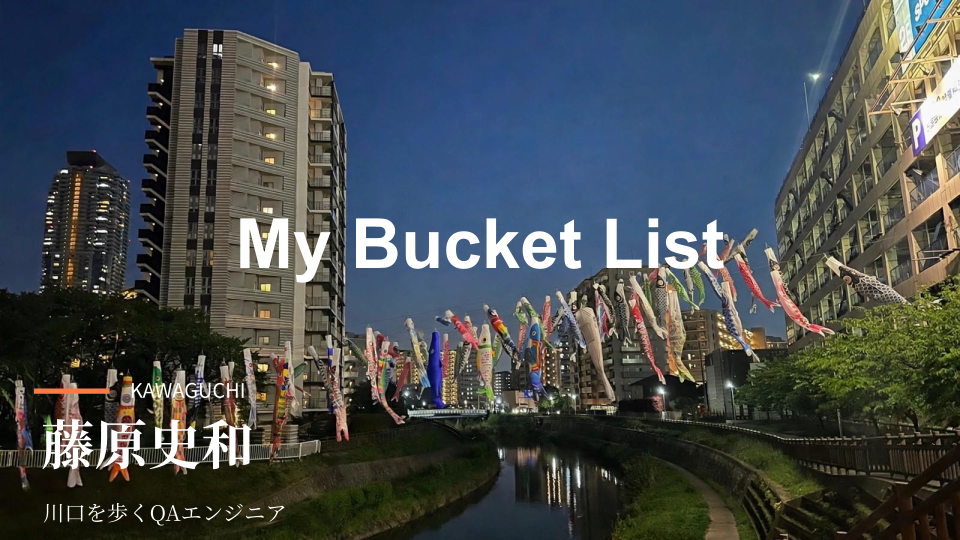
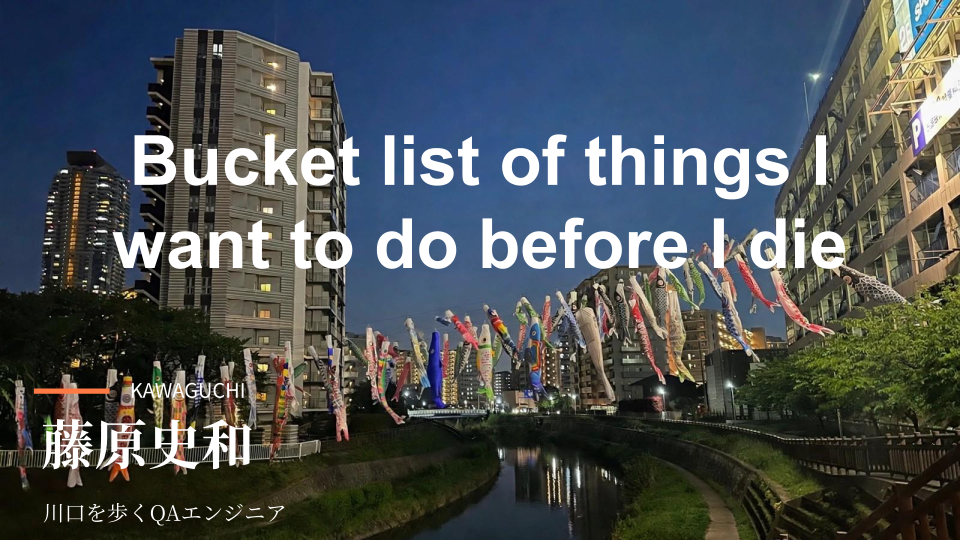
deploy: 91990119751d0ec8c552a84c2662d5ca43892daa

Changed region(s): [[0.125, 0.237, 0.875, 0.3852], [0.0938, 0.3852, 0.5625, 0.5333], [0.5938, 0.3852, 0.9062, 0.5037]]

diff --git a/zh/1DDYJrSSrkfpYp_Uh4p6Esj0791MVFP50b0cAdUsSdcU.html b/zh/1DDYJrSSrkfpYp_Uh4p6Esj0791MVFP50b0cAdUsSdcU.html
@@ -1,0 +1,72 @@
+<!DOCTYPE html>
+<html lang="zh-CN">
+  <head>
+    <meta charset="UTF-8" />
+    <meta name="viewport" content="width=device-width, initial-scale=1.0" />
+    <link rel="preconnect" href="https://fonts.googleapis.com">
+    <link rel="preconnect" href="https://fonts.gstatic.com" crossorigin>
+    <link rel="preconnect" href="https://script.google.com">
+    <link rel="preconnect" href="https://script.googleusercontent.com" crossorigin>
+    <link href="https://fonts.googleapis.com/css2?family=Shippori+Mincho+B1:wght@700;800&family=Zen+Kaku+Gothic+New:wght@400;500;700&display=swap" rel="stylesheet">
+    <link rel="icon" href="/blog/favicon.ico" sizes="any">
+    <link rel="icon" type="image/png" sizes="32x32" href="/blog/favicon-32.png">
+    <link rel="icon" type="image/png" sizes="16x16" href="/blog/favicon-16.png">
+    <link rel="apple-touch-icon" sizes="180x180" href="/blog/apple-touch-icon.png">
+    <meta property="og:title" content="2026年11月20日，通过异常案例测试和基于属性的测试发现的缺陷，以及六种类型的缺陷" />
+    <meta property="og:description" content="这是对本网站运营幕后情况的介绍。 前几天，我读了一篇博客文章。文章说“实际生产环境中的大多数问题都是由于没有检查‘异常情况’造成的”，读着读着，我不禁反思起自己的博客。 我首先在我的博客上进行了测试，发现了三个 bug。出于好奇，我把测试范" />
+    <meta property="og:type" content="article" />
+    <meta property="og:url" content="https://freddiefujiwara.com/blog/zh/1DDYJrSSrkfpYp_Uh4p6Esj0791MVFP50b0cAdUsSdcU" />
+    <meta property="og:image" content="https://freddiefujiwara.com/blog/ogp/1DDYJrSSrkfpYp_Uh4p6Esj0791MVFP50b0cAdUsSdcU.zh.png" />
+    <meta property="og:image:width" content="1200" />
+    <meta property="og:image:height" content="630" />
+    <meta property="og:site_name" content="藤原史和｜川口を歩くQAエンジニア" />
+    <meta name="twitter:card" content="summary_large_image" />
+    <meta name="twitter:image" content="https://freddiefujiwara.com/blog/ogp/1DDYJrSSrkfpYp_Uh4p6Esj0791MVFP50b0cAdUsSdcU.zh.png" />
+    <script>
+      (function () {
+        var l = window.location;
+
+        // 404.html から /blog/?/xxx にされている想定
+        if (l.search && l.search.startsWith('?/')) {
+          var route = l.search.slice(2); // "xxx..."
+
+          // route に &a=b が混ざる可能性があるので分離
+          var extra = '';
+          var ampIndex = route.indexOf('&');
+          if (ampIndex !== -1) {
+            extra = '?' + route.slice(ampIndex + 1);
+            route = route.slice(0, ampIndex);
+          }
+
+          // /blog/ + route へ戻す（末尾/を1回だけ調整）
+          var base = l.pathname; // "/blog/"
+          if (!base.endsWith('/')) base += '/';
+          var newUrl = base + route + extra + l.hash;
+
+          window.history.replaceState(null, '', newUrl);
+        }
+      })();
+    </script>
+    <title>2026年11月20日，通过异常案例测试和基于属性的测试发现的缺陷，以及六种类型的缺陷</title>
+      <!-- Google tag (gtag.js) -->
+    <script async src="https://www.googletagmanager.com/gtag/js?id=G-W2C6FNCW86"></script>
+    <script>
+      window.dataLayer = window.dataLayer || [];
+      function gtag(){dataLayer.push(arguments);}
+      gtag('js', new Date());
+      // Page views are sent by the router (src/analytics.js) so SPA
+      // navigations are counted without duplicates.
+      gtag('config', 'G-W2C6FNCW86', { send_page_view: false });
+    </script>
+    <script type="module" crossorigin src="/blog/assets/index-ELB7ZYs4.js"></script>
+    <link rel="stylesheet" crossorigin href="/blog/assets/index-Oqpwazlo.css">
+  <link rel="canonical" href="https://freddiefujiwara.com/blog/zh/1DDYJrSSrkfpYp_Uh4p6Esj0791MVFP50b0cAdUsSdcU" />
+<link rel="alternate" hreflang="ja" href="https://freddiefujiwara.com/blog/1DDYJrSSrkfpYp_Uh4p6Esj0791MVFP50b0cAdUsSdcU" />
+<link rel="alternate" hreflang="en" href="https://freddiefujiwara.com/blog/en/1DDYJrSSrkfpYp_Uh4p6Esj0791MVFP50b0cAdUsSdcU" />
+<link rel="alternate" hreflang="zh" href="https://freddiefujiwara.com/blog/zh/1DDYJrSSrkfpYp_Uh4p6Esj0791MVFP50b0cAdUsSdcU" />
+<link rel="alternate" hreflang="x-default" href="https://freddiefujiwara.com/blog/1DDYJrSSrkfpYp_Uh4p6Esj0791MVFP50b0cAdUsSdcU" />
+</head>
+  <body>
+    <div id="app"></div>
+  </body>
+</html>

diff --git a/1DDYJrSSrkfpYp_Uh4p6Esj0791MVFP50b0cAdUsSdcU.html b/1DDYJrSSrkfpYp_Uh4p6Esj0791MVFP50b0cAdUsSdcU.html
@@ -1,0 +1,71 @@
+<!DOCTYPE html>
+<html lang="ja">
+  <head>
+    <meta charset="UTF-8" />
+    <meta name="viewport" content="width=device-width, initial-scale=1.0" />
+    <link rel="preconnect" href="https://fonts.googleapis.com">
+    <link rel="preconnect" href="https://fonts.gstatic.com" crossorigin>
+    <link rel="preconnect" href="https://script.google.com">
+    <link rel="preconnect" href="https://script.googleusercontent.com" crossorigin>
+    <link href="https://fonts.googleapis.com/css2?family=Shippori+Mincho+B1:wght@700;800&family=Zen+Kaku+Gothic+New:wght@400;500;700&display=swap" rel="stylesheet">
+    <link rel="icon" href="/blog/favicon.ico" sizes="any">
+    <link rel="icon" type="image/png" sizes="32x32" href="/blog/favicon-32.png">
+    <link rel="icon" type="image/png" sizes="16x16" href="/blog/favicon-16.png">
+    <link rel="apple-touch-icon" sizes="180x180" href="/blog/apple-touch-icon.png">
+    <meta property="og:title" content="2026-11-20 異常系テストとプロパティベーステストで見つけた不具合と不具合の6つの型" />
+    <meta property="og:description" content="このサイトの運営の裏側の話です。 先日、ある方のブログ記事を読みました。「本番のトラブルは、たいてい『異常な場合』を確かめていないことから起きる」という内容で、読みながら、自分のブログはどうだろう、と思いました。 まずブログで試したところ、" />
+    <meta property="og:type" content="article" />
+    <meta property="og:url" content="https://freddiefujiwara.com/blog/1DDYJrSSrkfpYp_Uh4p6Esj0791MVFP50b0cAdUsSdcU" />
+    <meta property="og:image" content="https://freddiefujiwara.com/blog/ogp/1DDYJrSSrkfpYp_Uh4p6Esj0791MVFP50b0cAdUsSdcU.png" />
+    <meta property="og:image:width" content="1200" />
+    <meta property="og:image:height" content="630" />
+    <meta property="og:site_name" content="藤原史和｜川口を歩くQAエンジニア" />
+    <meta name="twitter:card" content="summary_large_image" />
+    <meta name="twitter:image" content="https://freddiefujiwara.com/blog/ogp/1DDYJrSSrkfpYp_Uh4p6Esj0791MVFP50b0cAdUsSdcU.png" />
+    <script>
+      (function () {
+        var l = window.location;
+
+        // 404.html から /blog/?/xxx にされている想定
+        if (l.search && l.search.startsWith('?/')) {
+          var route = l.search.slice(2); // "xxx..."
+
+          // route に &a=b が混ざる可能性があるので分離
+          var extra = '';
+          var ampIndex = route.indexOf('&');
+          if (ampIndex !== -1) {
+            extra = '?' + route.slice(ampIndex + 1);
+            route = route.slice(0, ampIndex);
+          }
+
+          // /blog/ + route へ戻す（末尾/を1回だけ調整）
+          var base = l.pathname; // "/blog/"
+          if (!base.endsWith('/')) base += '/';
+          var newUrl = base + route + extra + l.hash;
+
+          window.history.replaceState(null, '', newUrl);
+        }
+      })();
+    </script>
+    <title>2026-11-20 異常系テストとプロパティベーステストで見つけた不具合と不具合の6つの型</title>
+      <!-- Google tag (gtag.js) -->
+    <script async src="https://www.googletagmanager.com/gtag/js?id=G-W2C6FNCW86"></script>
+    <script>
+      window.dataLayer = window.dataLayer || [];
+      function gtag(){dataLayer.push(arguments);}
+      gtag('js', new Date());
+      // Page views are sent by the router (src/analytics.js) so SPA
+      // navigations are counted without duplicates.
+      gtag('config', 'G-W2C6FNCW86', { send_page_view: false });
+    </script>
+    <script type="module" crossorigin src="/blog/assets/index-ELB7ZYs4.js"></script>
+    <link rel="stylesheet" crossorigin href="/blog/assets/index-Oqpwazlo.css">
+  <link rel="alternate" hreflang="ja" href="https://freddiefujiwara.com/blog/1DDYJrSSrkfpYp_Uh4p6Esj0791MVFP50b0cAdUsSdcU" />
+<link rel="alternate" hreflang="en" href="https://freddiefujiwara.com/blog/en/1DDYJrSSrkfpYp_Uh4p6Esj0791MVFP50b0cAdUsSdcU" />
+<link rel="alternate" hreflang="zh" href="https://freddiefujiwara.com/blog/zh/1DDYJrSSrkfpYp_Uh4p6Esj0791MVFP50b0cAdUsSdcU" />
+<link rel="alternate" hreflang="x-default" href="https://freddiefujiwara.com/blog/1DDYJrSSrkfpYp_Uh4p6Esj0791MVFP50b0cAdUsSdcU" />
+</head>
+  <body>
+    <div id="app"></div>
+  </body>
+</html>

diff --git a/en/1DDYJrSSrkfpYp_Uh4p6Esj0791MVFP50b0cAdUsSdcU.html b/en/1DDYJrSSrkfpYp_Uh4p6Esj0791MVFP50b0cAdUsSdcU.html
@@ -1,0 +1,72 @@
+<!DOCTYPE html>
+<html lang="en">
+  <head>
+    <meta charset="UTF-8" />
+    <meta name="viewport" content="width=device-width, initial-scale=1.0" />
+    <link rel="preconnect" href="https://fonts.googleapis.com">
+    <link rel="preconnect" href="https://fonts.gstatic.com" crossorigin>
+    <link rel="preconnect" href="https://script.google.com">
+    <link rel="preconnect" href="https://script.googleusercontent.com" crossorigin>
+    <link href="https://fonts.googleapis.com/css2?family=Shippori+Mincho+B1:wght@700;800&family=Zen+Kaku+Gothic+New:wght@400;500;700&display=swap" rel="stylesheet">
+    <link rel="icon" href="/blog/favicon.ico" sizes="any">
+    <link rel="icon" type="image/png" sizes="32x32" href="/blog/favicon-32.png">
+    <link rel="icon" type="image/png" sizes="16x16" href="/blog/favicon-16.png">
+    <link rel="apple-touch-icon" sizes="180x180" href="/blog/apple-touch-icon.png">
+    <meta property="og:title" content="2026-11-20 Defects found through abnormal case testing and property-based testing, and six types of defects" />
+    <meta property="og:description" content="This is a behind-the-scenes look at how this website is run. The other day, I read someone's blog post. It said that &quot;mo" />
+    <meta property="og:type" content="article" />
+    <meta property="og:url" content="https://freddiefujiwara.com/blog/en/1DDYJrSSrkfpYp_Uh4p6Esj0791MVFP50b0cAdUsSdcU" />
+    <meta property="og:image" content="https://freddiefujiwara.com/blog/ogp/1DDYJrSSrkfpYp_Uh4p6Esj0791MVFP50b0cAdUsSdcU.en.png" />
+    <meta property="og:image:width" content="1200" />
+    <meta property="og:image:height" content="630" />
+    <meta property="og:site_name" content="藤原史和｜川口を歩くQAエンジニア" />
+    <meta name="twitter:card" content="summary_large_image" />
+    <meta name="twitter:image" content="https://freddiefujiwara.com/blog/ogp/1DDYJrSSrkfpYp_Uh4p6Esj0791MVFP50b0cAdUsSdcU.en.png" />
+    <script>
+      (function () {
+        var l = window.location;
+
+        // 404.html から /blog/?/xxx にされている想定
+        if (l.search && l.search.startsWith('?/')) {
+          var route = l.search.slice(2); // "xxx..."
+
+          // route に &a=b が混ざる可能性があるので分離
+          var extra = '';
+          var ampIndex = route.indexOf('&');
+          if (ampIndex !== -1) {
+            extra = '?' + route.slice(ampIndex + 1);
+            route = route.slice(0, ampIndex);
+          }
+
+          // /blog/ + route へ戻す（末尾/を1回だけ調整）
+          var base = l.pathname; // "/blog/"
+          if (!base.endsWith('/')) base += '/';
+          var newUrl = base + route + extra + l.hash;
+
+          window.history.replaceState(null, '', newUrl);
+        }
+      })();
+    </script>
+    <title>2026-11-20 Defects found through abnormal case testing and property-based testing, and six types of defects</title>
+      <!-- Google tag (gtag.js) -->
+    <script async src="https://www.googletagmanager.com/gtag/js?id=G-W2C6FNCW86"></script>
+    <script>
+      window.dataLayer = window.dataLayer || [];
+      function gtag(){dataLayer.push(arguments);}
+      gtag('js', new Date());
+      // Page views are sent by the router (src/analytics.js) so SPA
+      // navigations are counted without duplicates.
+      gtag('config', 'G-W2C6FNCW86', { send_page_view: false });
+    </script>
+    <script type="module" crossorigin src="/blog/assets/index-ELB7ZYs4.js"></script>
+    <link rel="stylesheet" crossorigin href="/blog/assets/index-Oqpwazlo.css">
+  <link rel="canonical" href="https://freddiefujiwara.com/blog/en/1DDYJrSSrkfpYp_Uh4p6Esj0791MVFP50b0cAdUsSdcU" />
+<link rel="alternate" hreflang="ja" href="https://freddiefujiwara.com/blog/1DDYJrSSrkfpYp_Uh4p6Esj0791MVFP50b0cAdUsSdcU" />
+<link rel="alternate" hreflang="en" href="https://freddiefujiwara.com/blog/en/1DDYJrSSrkfpYp_Uh4p6Esj0791MVFP50b0cAdUsSdcU" />
+<link rel="alternate" hreflang="zh" href="https://freddiefujiwara.com/blog/zh/1DDYJrSSrkfpYp_Uh4p6Esj0791MVFP50b0cAdUsSdcU" />
+<link rel="alternate" hreflang="x-default" href="https://freddiefujiwara.com/blog/1DDYJrSSrkfpYp_Uh4p6Esj0791MVFP50b0cAdUsSdcU" />
+</head>
+  <body>
+    <div id="app"></div>
+  </body>
+</html>

diff --git a/staging/en/1L5aLdIf8eNCMIC8VXRzNj1Q4TwIcj9jjWy0T55xnb2c.html b/staging/en/1L5aLdIf8eNCMIC8VXRzNj1Q4TwIcj9jjWy0T55xnb2c.html
@@ -1,0 +1,71 @@
+<!DOCTYPE html>
+<html lang="en">
+  <head>
+    <meta charset="UTF-8" />
+    <meta name="viewport" content="width=device-width, initial-scale=1.0" />
+    <link rel="preconnect" href="https://fonts.googleapis.com">
+    <link rel="preconnect" href="https://fonts.gstatic.com" crossorigin>
+    <link rel="preconnect" href="https://script.google.com">
+    <link rel="preconnect" href="https://script.googleusercontent.com" crossorigin>
+    <link href="https://fonts.googleapis.com/css2?family=Shippori+Mincho+B1:wght@700;800&family=Zen+Kaku+Gothic+New:wght@400;500;700&display=swap" rel="stylesheet">
+    <link rel="icon" href="/blog/favicon.ico" sizes="any">
+    <link rel="icon" type="image/png" sizes="32x32" href="/blog/favicon-32.png">
+    <link rel="icon" type="image/png" sizes="16x16" href="/blog/favicon-16.png">
+    <link rel="apple-touch-icon" sizes="180x180" href="/blog/apple-touch-icon.png">
+    <meta property="og:title" content="A Chinese lunch with a foodie from Kawaguchi. The reason why it tastes like Ginza food." />
+    <meta property="og:description" content="I had lunch for the first time with Kim-nii, a food blogger from Kawaguchi whom I met on Instagram. I had originally pla" />
+    <meta property="og:type" content="article" />
+    <meta property="og:url" content="https://freddiefujiwara.com/blog/staging/en/1L5aLdIf8eNCMIC8VXRzNj1Q4TwIcj9jjWy0T55xnb2c" />
+    <meta property="og:image" content="https://freddiefujiwara.com/blog/staging/ogp/1L5aLdIf8eNCMIC8VXRzNj1Q4TwIcj9jjWy0T55xnb2c.en.png" />
+    <meta property="og:image:width" content="1200" />
+    <meta property="og:image:height" content="630" />
+    <meta property="og:site_name" content="藤原史和｜川口を歩くQAエンジニア" />
+    <meta name="twitter:card" content="summary_large_image" />
+    <meta name="twitter:image" content="https://freddiefujiwara.com/blog/staging/ogp/1L5aLdIf8eNCMIC8VXRzNj1Q4TwIcj9jjWy0T55xnb2c.en.png" />
+    <script>
+      (function () {
+        var l = window.location;
+
+        // 404.html から /blog/?/xxx にされている想定
+        if (l.search && l.search.startsWith('?/')) {
+          var route = l.search.slice(2); // "xxx..."
+
+          // route に &a=b が混ざる可能性があるので分離
+          var extra = '';
+          var ampIndex = route.indexOf('&');
+          if (ampIndex !== -1) {
+            extra = '?' + route.slice(ampIndex + 1);
+            route = route.slice(0, ampIndex);
+          }
+
+          // /blog/ + route へ戻す（末尾/を1回だけ調整）
+          var base = l.pathname; // "/blog/"
+          if (!base.endsWith('/')) base += '/';
+          var newUrl = base + route + extra + l.hash;
+
+          window.history.replaceState(null, '', newUrl);
+        }
+      })();
+    </script>
+    <title>A Chinese lunch with a foodie from Kawaguchi. The reason why it tastes like Ginza food.</title>
+      <!-- Google tag (gtag.js) -->
+    <script async src="https://www.googletagmanager.com/gtag/js?id=G-W2C6FNCW86"></script>
+    <script>
+      window.dataLayer = window.dataLayer || [];
+      function gtag(){dataLayer.push(arguments);}
+      gtag('js', new Date());
+      // Page views are sent by the router (src/analytics.js) so SPA
+      // navigations are counted without duplicates.
+      gtag('config', 'G-W2C6FNCW86', { send_page_view: false });
+    </script>
+    <script type="module" crossorigin src="/blog/staging/assets/index-CZN3C0l5.js"></script>
+    <link rel="stylesheet" crossorigin href="/blog/staging/assets/index-Oqpwazlo.css">
+  <link rel="canonical" href="https://freddiefujiwara.com/blog/staging/en/1L5aLdIf8eNCMIC8VXRzNj1Q4TwIcj9jjWy0T55xnb2c" />
+<link rel="alternate" hreflang="ja" href="https://freddiefujiwara.com/blog/staging/1L5aLdIf8eNCMIC8VXRzNj1Q4TwIcj9jjWy0T55xnb2c" />
+<link rel="alternate" hreflang="en" href="https://freddiefujiwara.com/blog/staging/en/1L5aLdIf8eNCMIC8VXRzNj1Q4TwIcj9jjWy0T55xnb2c" />
+<link rel="alternate" hreflang="x-default" href="https://freddiefujiwara.com/blog/staging/1L5aLdIf8eNCMIC8VXRzNj1Q4TwIcj9jjWy0T55xnb2c" />
+</head>
+  <body>
+    <div id="app"></div>
+  </body>
+</html>

diff --git a/staging/1L5aLdIf8eNCMIC8VXRzNj1Q4TwIcj9jjWy0T55xnb2c.html b/staging/1L5aLdIf8eNCMIC8VXRzNj1Q4TwIcj9jjWy0T55xnb2c.html
@@ -12,16 +12,16 @@
     <link rel="icon" type="image/png" sizes="32x32" href="/blog/favicon-32.png">
     <link rel="icon" type="image/png" sizes="16x16" href="/blog/favicon-16.png">
     <link rel="apple-touch-icon" sizes="180x180" href="/blog/apple-touch-icon.png">
-    <meta property="og:title" content="2026-11-20 壊れたデータが来ても、ブログが止まらないか確かめました" />
-    <meta property="og:description" content="このサイトの運営の裏側の話です。 先日、ある方のブログ記事を読みました。「本番のトラブルは、たいてい『異常な場合』を確かめていないことから起きる」という内容で、読みながら、自分のブログはどうだろう、と思いました。そこで今回は、ブログの画面側" />
+    <meta property="og:title" content="川口のグルメな人と中華ランチ。銀座の味がする理由" />
+    <meta property="og:description" content="Instagramで知り合った川口のグルメ発信者、キムにぃさんと初めてランチをしてきました。 本当は宮町の龍珠Chinaに行く予定でしたが、当日になって臨時休業と分かり、キムにぃさんがもう一軒おすすめしてくれていた本町の中華ダイニング煌璃へ" />
     <meta property="og:type" content="article" />
-    <meta property="og:url" content="https://freddiefujiwara.com/blog/staging/1DDYJrSSrkfpYp_Uh4p6Esj0791MVFP50b0cAdUsSdcU" />
-    <meta property="og:image" content="https://freddiefujiwara.com/blog/staging/ogp/1DDYJrSSrkfpYp_Uh4p6Esj0791MVFP50b0cAdUsSdcU.png" />
+    <meta property="og:url" content="https://freddiefujiwara.com/blog/staging/1L5aLdIf8eNCMIC8VXRzNj1Q4TwIcj9jjWy0T55xnb2c" />
+    <meta property="og:image" content="https://freddiefujiwara.com/blog/staging/ogp/1L5aLdIf8eNCMIC8VXRzNj1Q4TwIcj9jjWy0T55xnb2c.png" />
     <meta property="og:image:width" content="1200" />
     <meta property="og:image:height" content="630" />
     <meta property="og:site_name" content="藤原史和｜川口を歩くQAエンジニア" />
     <meta name="twitter:card" content="summary_large_image" />
-    <meta name="twitter:image" content="https://freddiefujiwara.com/blog/staging/ogp/1DDYJrSSrkfpYp_Uh4p6Esj0791MVFP50b0cAdUsSdcU.png" />
+    <meta name="twitter:image" content="https://freddiefujiwara.com/blog/staging/ogp/1L5aLdIf8eNCMIC8VXRzNj1Q4TwIcj9jjWy0T55xnb2c.png" />
     <script>
       (function () {
         var l = window.location;
@@ -47,7 +47,7 @@
         }
       })();
     </script>
-    <title>2026-11-20 壊れたデータが来ても、ブログが止まらないか確かめました</title>
+    <title>川口のグルメな人と中華ランチ。銀座の味がする理由</title>
       <!-- Google tag (gtag.js) -->
     <script async src="https://www.googletagmanager.com/gtag/js?id=G-W2C6FNCW86"></script>
     <script>
@@ -60,7 +60,10 @@
     </script>
     <script type="module" crossorigin src="/blog/staging/assets/index-CZN3C0l5.js"></script>
     <link rel="stylesheet" crossorigin href="/blog/staging/assets/index-Oqpwazlo.css">
-  </head>
+  <link rel="alternate" hreflang="ja" href="https://freddiefujiwara.com/blog/staging/1L5aLdIf8eNCMIC8VXRzNj1Q4TwIcj9jjWy0T55xnb2c" />
+<link rel="alternate" hreflang="en" href="https://freddiefujiwara.com/blog/staging/en/1L5aLdIf8eNCMIC8VXRzNj1Q4TwIcj9jjWy0T55xnb2c" />
+<link rel="alternate" hreflang="x-default" href="https://freddiefujiwara.com/blog/staging/1L5aLdIf8eNCMIC8VXRzNj1Q4TwIcj9jjWy0T55xnb2c" />
+</head>
   <body>
     <div id="app"></div>
   </body>

diff --git a/zh/1WPrZI3RqXZcBIrVfrvY7Qn6AF-pFBHdNWXcK7PIwokM.html b/zh/1WPrZI3RqXZcBIrVfrvY7Qn6AF-pFBHdNWXcK7PIwokM.html
@@ -12,8 +12,8 @@
     <link rel="icon" type="image/png" sizes="32x32" href="/blog/favicon-32.png">
     <link rel="icon" type="image/png" sizes="16x16" href="/blog/favicon-16.png">
     <link rel="apple-touch-icon" sizes="180x180" href="/blog/apple-touch-icon.png">
-    <meta property="og:title" content="2025-12-27 死前想做的事情清单" />
-    <meta property="og:description" content="死前想做的事情清单 我列出了36件“死前想做的事情”。目标年龄只是一个参考，不受顺序束缚，前提是从看起来能实现的开始逐一实现。 此前我是在专用页面上以瓷砖状排列的方式公开的，但从今以后决定改为以博客文章的形式公开。每当实现了一件，或想到了新" />
+    <meta property="og:title" content="2025年12月27日 我死前想做的事情清单" />
+    <meta property="og:description" content="愿望清单 我列出了37件死前想做的事情。目标年龄只是参考，顺序也并非固定，我计划按照可行的顺序来完成它们。 之前，我把这些内容发布在一个专门的页面上，采用类似平铺式的布局。但从现在开始，我决定把它们作为博客文章发布。每当我取得什么成就或想到" />
     <meta property="og:type" content="article" />
     <meta property="og:url" content="https://freddiefujiwara.com/blog/zh/1WPrZI3RqXZcBIrVfrvY7Qn6AF-pFBHdNWXcK7PIwokM" />
     <meta property="og:image" content="https://freddiefujiwara.com/blog/ogp/1WPrZI3RqXZcBIrVfrvY7Qn6AF-pFBHdNWXcK7PIwokM.zh.png" />
@@ -47,7 +47,7 @@
         }
       })();
     </script>
-    <title>2025-12-27 死前想做的事情清单</title>
+    <title>2025年12月27日 我死前想做的事情清单</title>
       <!-- Google tag (gtag.js) -->
     <script async src="https://www.googletagmanager.com/gtag/js?id=G-W2C6FNCW86"></script>
     <script>

diff --git a/en/1WPrZI3RqXZcBIrVfrvY7Qn6AF-pFBHdNWXcK7PIwokM.html b/en/1WPrZI3RqXZcBIrVfrvY7Qn6AF-pFBHdNWXcK7PIwokM.html
@@ -12,8 +12,8 @@
     <link rel="icon" type="image/png" sizes="32x32" href="/blog/favicon-32.png">
     <link rel="icon" type="image/png" sizes="16x16" href="/blog/favicon-16.png">
     <link rel="apple-touch-icon" sizes="180x180" href="/blog/apple-touch-icon.png">
-    <meta property="og:title" content="2025-12-27 My Bucket List" />
-    <meta property="og:description" content="My Bucket List I've written out 36 things I want to do before I die. The target ages are just a rough guide, and the ide" />
+    <meta property="og:title" content="2025-12-27 Bucket list of things I want to do before I die" />
+    <meta property="og:description" content="Bucket list I've written down 37 things I want to do before I die. The target ages are just guidelines, and I'm not boun" />
     <meta property="og:type" content="article" />
     <meta property="og:url" content="https://freddiefujiwara.com/blog/en/1WPrZI3RqXZcBIrVfrvY7Qn6AF-pFBHdNWXcK7PIwokM" />
     <meta property="og:image" content="https://freddiefujiwara.com/blog/ogp/1WPrZI3RqXZcBIrVfrvY7Qn6AF-pFBHdNWXcK7PIwokM.en.png" />
@@ -47,7 +47,7 @@
         }
       })();
     </script>
-    <title>2025-12-27 My Bucket List</title>
+    <title>2025-12-27 Bucket list of things I want to do before I die</title>
       <!-- Google tag (gtag.js) -->
     <script async src="https://www.googletagmanager.com/gtag/js?id=G-W2C6FNCW86"></script>
     <script>

diff --git a/1WPrZI3RqXZcBIrVfrvY7Qn6AF-pFBHdNWXcK7PIwokM.html b/1WPrZI3RqXZcBIrVfrvY7Qn6AF-pFBHdNWXcK7PIwokM.html
@@ -13,7 +13,7 @@
     <link rel="icon" type="image/png" sizes="16x16" href="/blog/favicon-16.png">
     <link rel="apple-touch-icon" sizes="180x180" href="/blog/apple-touch-icon.png">
     <meta property="og:title" content="2025-12-27 死ぬまでにやりたいことリスト" />
-    <meta property="og:description" content="死ぬまでにやりたいことリスト 「死ぬまでにやりたいこと」を36個、書き出しています。目標の年齢はあくまで目安で、順番に縛られず、できそうなものから叶えていく前提です。 これまでは専用ページでタイル状に並べて公開していましたが、これからはブロ" />
+    <meta property="og:description" content="死ぬまでにやりたいことリスト 「死ぬまでにやりたいこと」を37個、書き出しています。目標の年齢はあくまで目安で、順番に縛られず、できそうなものから叶えていく前提です。 これまでは専用ページでタイル状に並べて公開していましたが、これからはブロ" />
     <meta property="og:type" content="article" />
     <meta property="og:url" content="https://freddiefujiwara.com/blog/1WPrZI3RqXZcBIrVfrvY7Qn6AF-pFBHdNWXcK7PIwokM" />
     <meta property="og:image" content="https://freddiefujiwara.com/blog/ogp/1WPrZI3RqXZcBIrVfrvY7Qn6AF-pFBHdNWXcK7PIwokM.png" />
